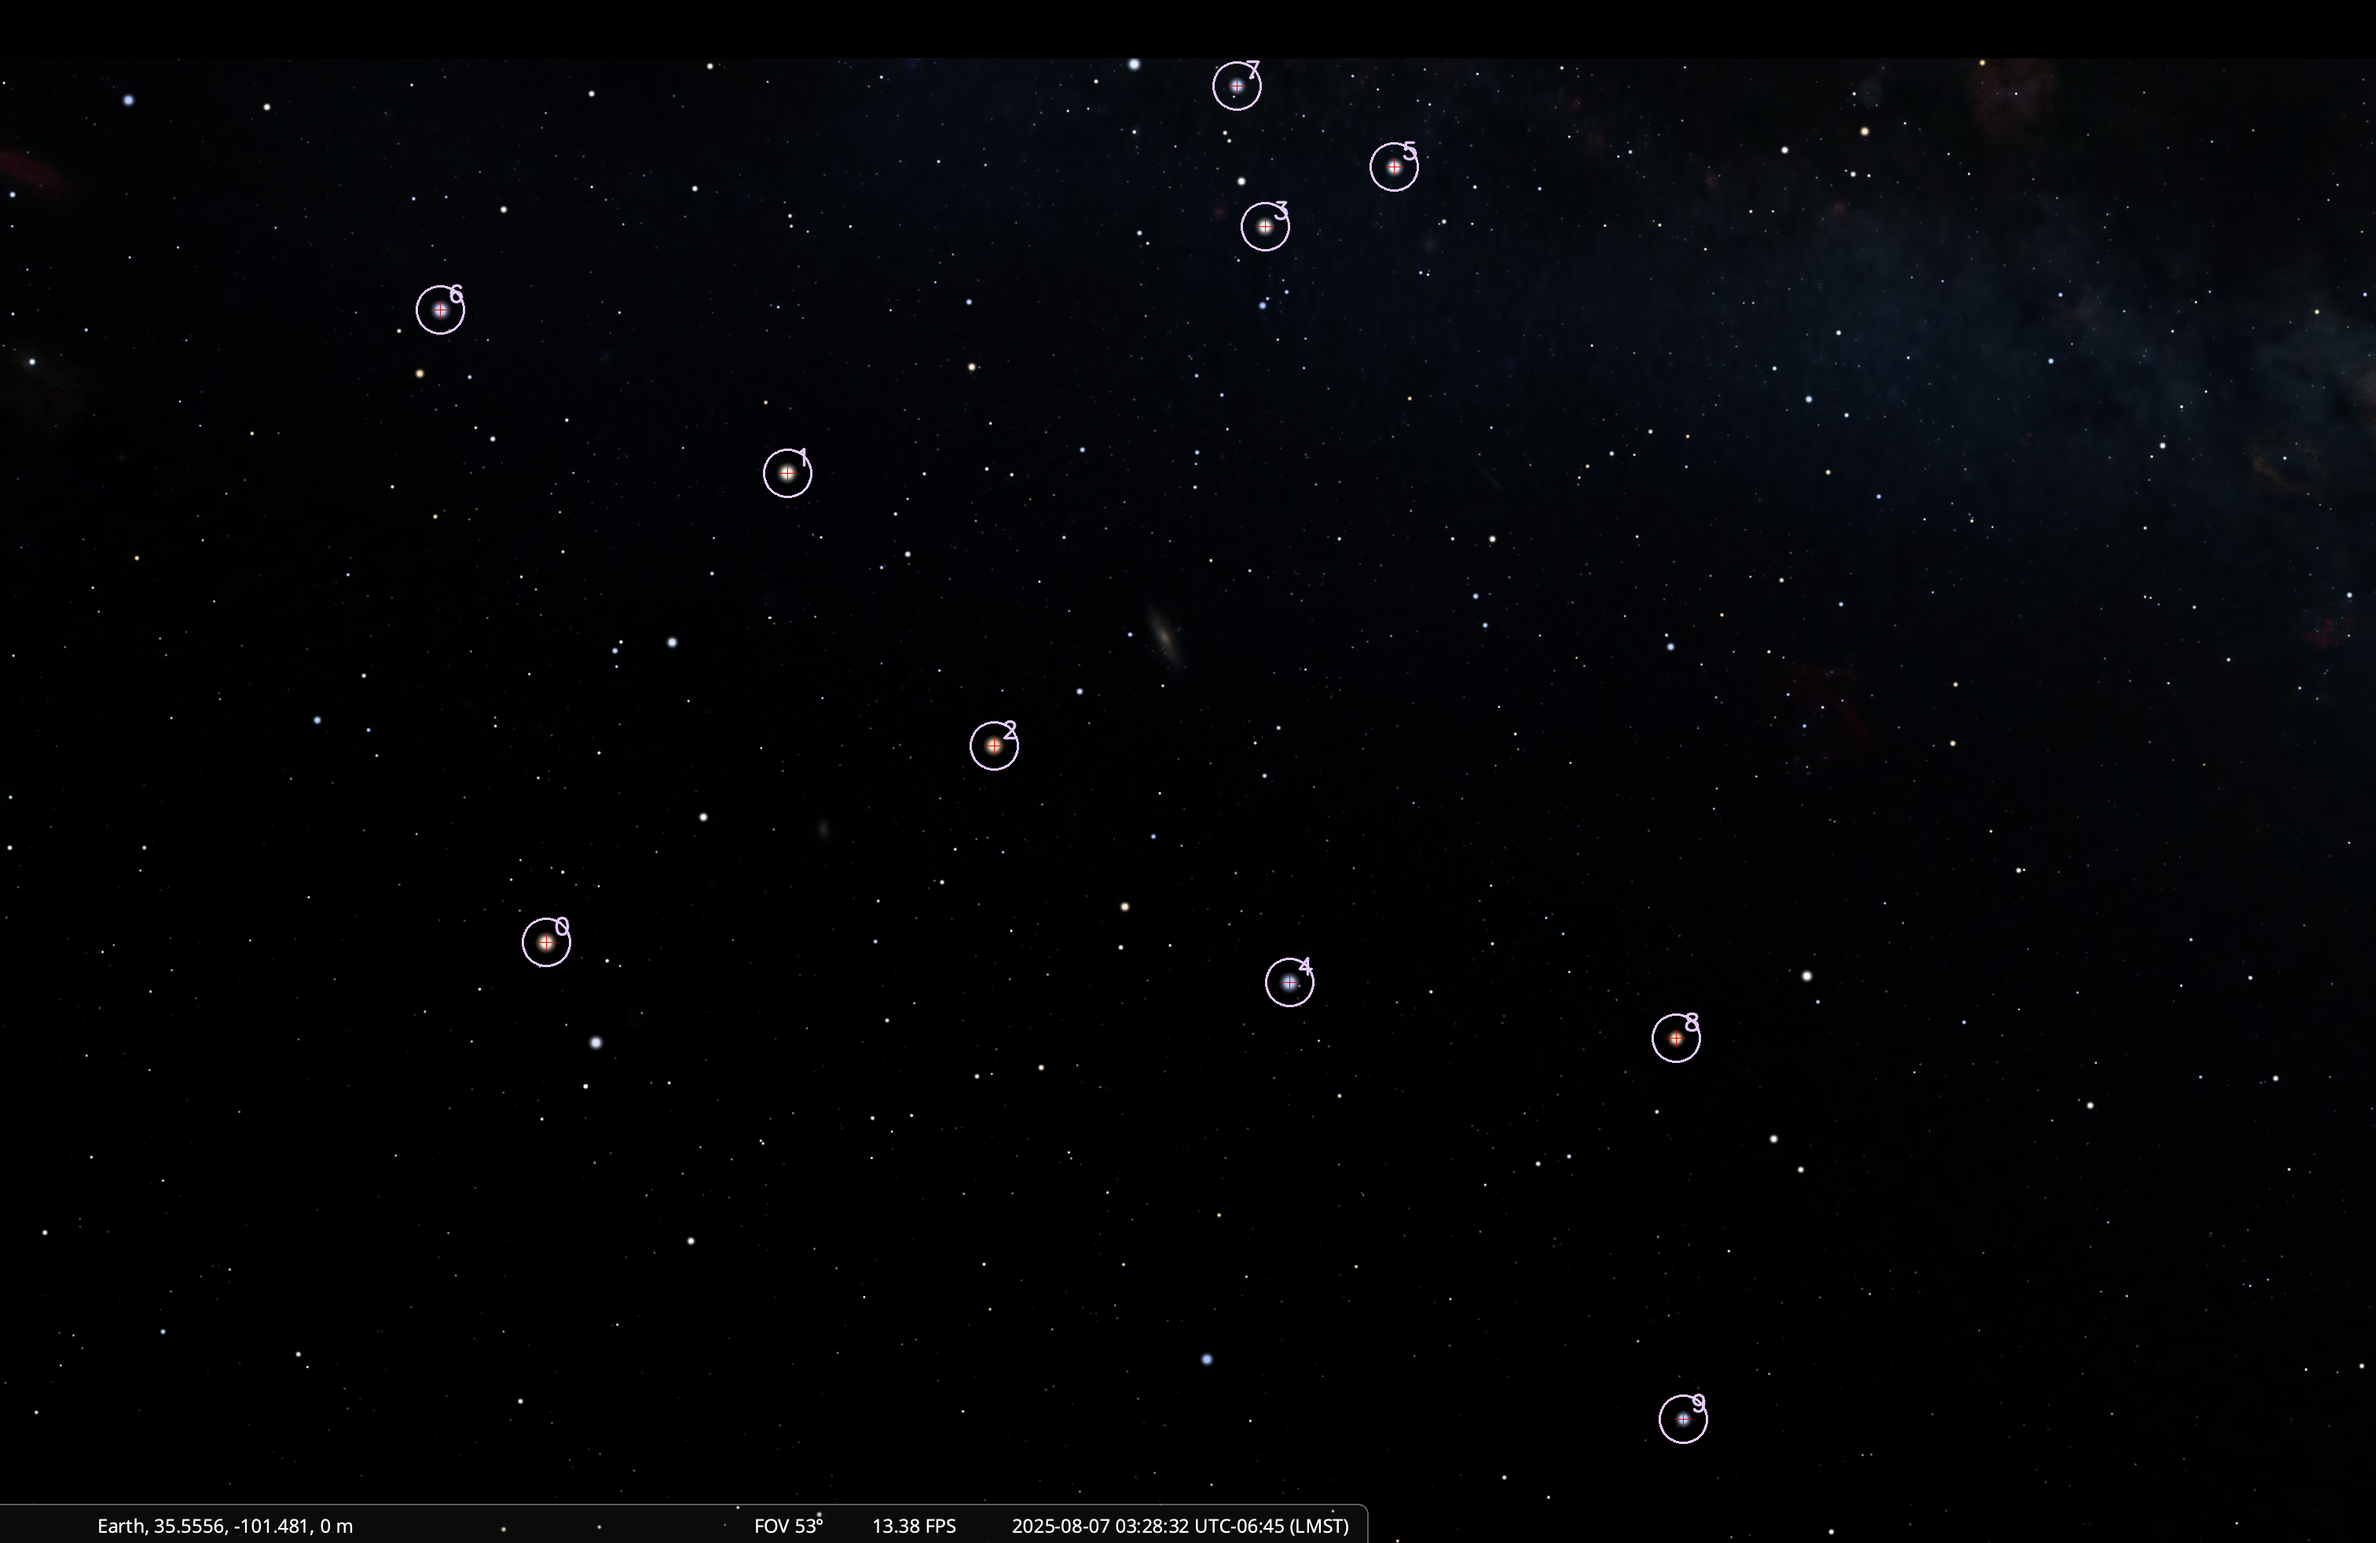
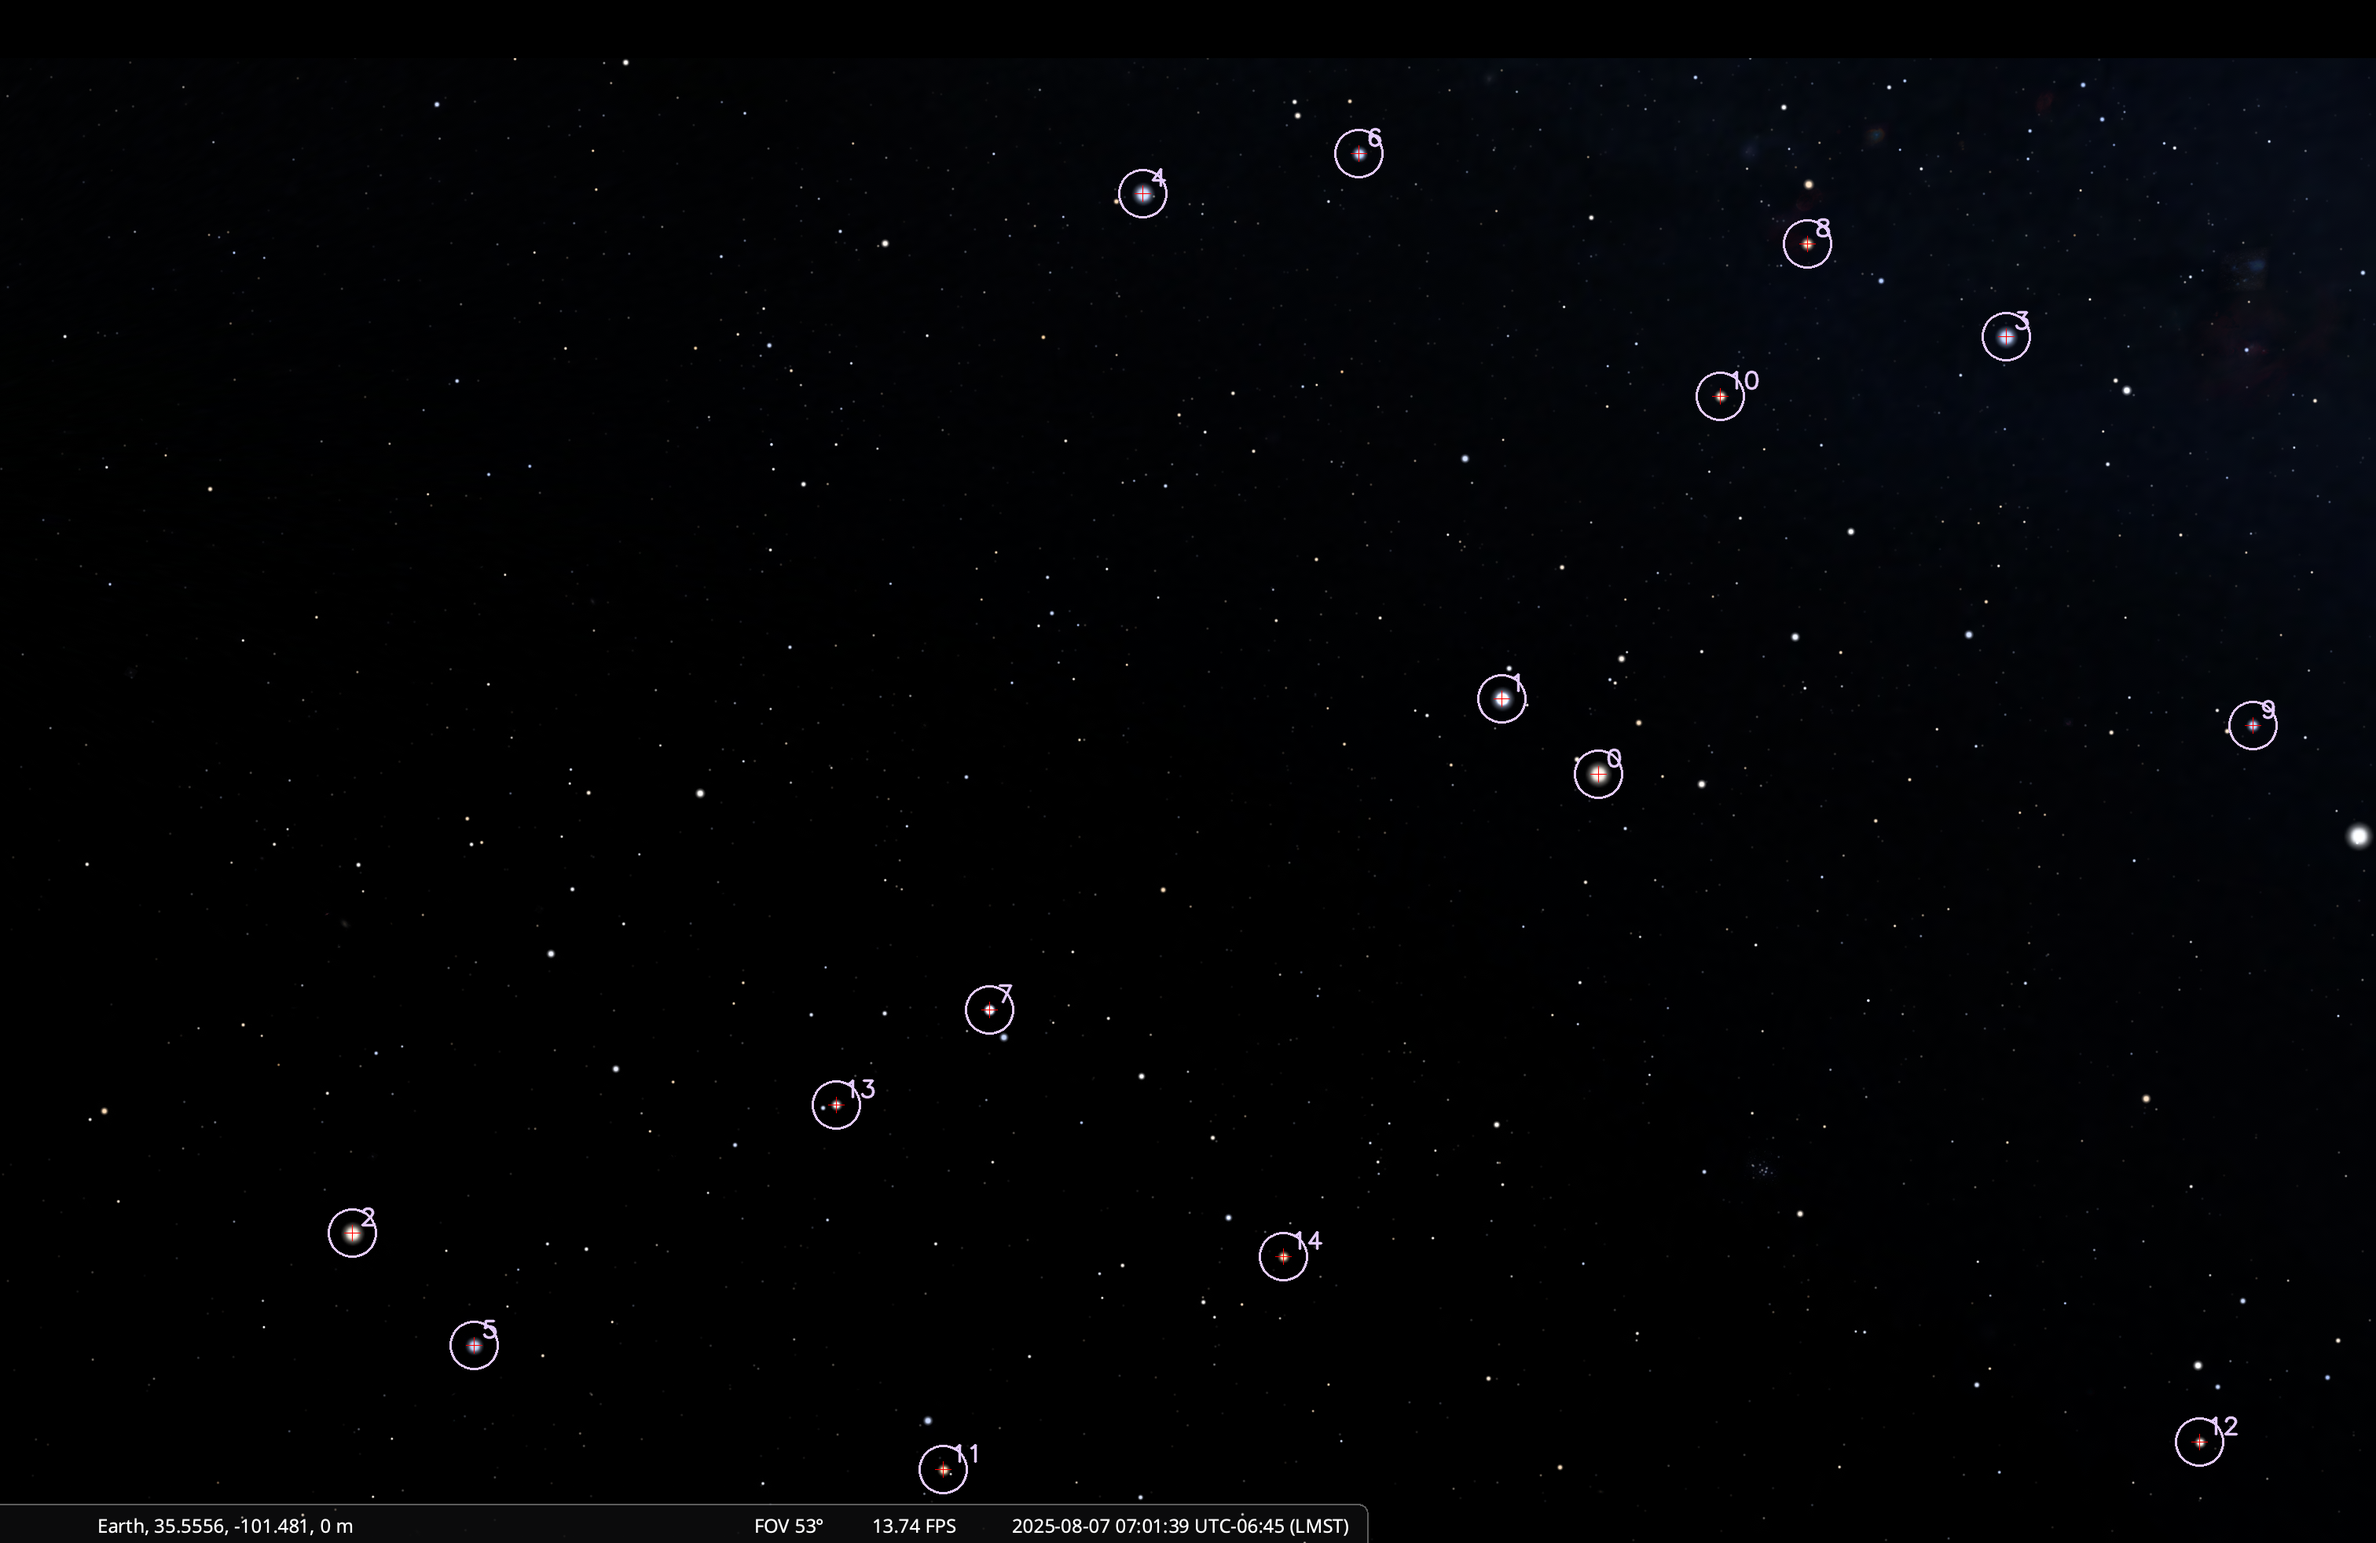
☆ Correcting quaternion logic - add calculate_error and calculate_weights function. Manually correcting original quaternion once

diff --git a/src/digital_twin/main.py b/src/digital_twin/main.py
@@ -25,8 +25,8 @@ CENTER_Y = IMAGE_HEIGHT / 2
 FOCAL_LENGTH_X = (IMAGE_WIDTH / 2) / math.tan(math.radians(FOV_X / 2))
 FOCAL_LENGTH_Y = (IMAGE_HEIGHT / 2) / math.tan(math.radians(FOV_Y / 2))
 TOLERANCE = 2
-IMAGE_FILE = "./test_images/testing44.png"
-NUM_STARS = 10
+IMAGE_FILE = "./test_images/testing45.png"
+NUM_STARS = 15
 EPSILON = 1e-6
 MIN_MATCHES = 5
 MIN_SUPPORT = 5
@@ -429,7 +429,7 @@ def build_quaternion_attitude_profile_matrix(attitude_profile_matrix):
 # Inputs:
 # - quaternion_attitude_profile_matrix: 4x4 matrix
 # Outputs:
-# - optimal_quaternion: quaternion that corresponds to our rotation
+# - optimal_quaternion: quaternion that corresponds to our rotation [qw, qx, qy, qz]
 def find_optimal_quaternion(quaternion_attitude_profile_matrix):
     eigenvalues, eigenvectors = np.linalg.eigh(quaternion_attitude_profile_matrix)
     max_index = np.argmax(eigenvalues)
@@ -474,7 +474,8 @@ def inverse_rotate_vectors(quaternion, catalog_vectors):
 # - projected_coords: coordinates of each point. If point is behind camera
 # the element in the array is None
 def project_to_image_plane(vectors, params):
-    f_x, f_y, c_x, c_y = params
+    f_x, f_y = params[0]
+    c_x, c_y = params[1]
     projected_coords = []
     for vector in vectors:
         x, y, z = vector
@@ -484,7 +485,7 @@ def project_to_image_plane(vectors, params):
             projected_x = f_x * (x / z) + c_x
             projected_y = f_y * (y / z) + c_y
             projected_coords.append((projected_x, projected_y))
-    
+
     return projected_coords
 
 
@@ -495,11 +496,43 @@ def reproject_vectors(quaternion, catalog_vectors, params):
     projected_coords = project_to_image_plane(camera_vectors, params)
     return projected_coords
 
+# Function to calculate error (offset of image star coords to reprojected
+# star coords)
+def calculate_error(image_star_coords, reprojected_star_coords):
+    error_rate = []
+    for i in range(len(reprojected_star_coords)):
+        x_i, y_i = image_star_coords[i]
+
+        if reprojected_star_coords[i] is None:
+            error_rate.append(float("inf"))
+            continue
+
+        x_p, y_p = reprojected_star_coords[i]
+
+        d_x = (x_i - x_p) ** 2
+        d_y = (y_i - y_p) ** 2
+        dist = np.sqrt(d_x + d_y)
+
+        error_rate.append(dist)
+
+    return error_rate
+
+
+def calculate_weights(error_rates):
+    weights = []
+    for error in error_rates:
+        if error == float("inf"):
+            weights.append(0)
+        else:
+            weights.append(1 / (error**2 + EPSILON))
+
+    return weights
+
 
 def lost_in_space():
 
-    star_coords = ip.find_brightest_stars(IMAGE_FILE, NUM_STARS)
-    # star_coords = ip.get_star_coords(IMAGE_FILE, NUM_STARS)
+    # star_coords = ip.find_brightest_stars(IMAGE_FILE, NUM_STARS)
+    star_coords = ip.get_star_coords(IMAGE_FILE, NUM_STARS)
     img_unit_vectors = star_coords_to_unit_vector(
         star_coords, (CENTER_X, CENTER_Y), FOCAL_LENGTH_X, FOCAL_LENGTH_Y
     )
@@ -552,6 +585,53 @@ def lost_in_space():
     cat_matrix = catalog_vector_matrix(best_match, cat_unit_vectors)
 
     quaternion = compute_attitude_quaternion(img_matrix, cat_matrix)
+    q_scalar_last = np.roll(quaternion, -1)
+    reprojected_coords = reproject_vectors(
+        q_scalar_last,
+        cat_matrix,
+        [(FOCAL_LENGTH_X, FOCAL_LENGTH_Y), (CENTER_X, CENTER_Y)],
+    )
+    print(f"Reprojected:")
+    for el in reprojected_coords:
+        if el is None:
+            print(f"aaa")
+        else:
+            x, y = el
+            print(f"{x}, {y}")
+
+    print(f"Original:")
+    for x, y in star_coords:
+        print(f"{x}, {y}")
+
+    error_rates = calculate_error(star_coords, reprojected_coords)
+    for error in error_rates:
+        print(f"{error}")
+
+    weights = calculate_weights(error_rates)
+    new_q = compute_attitude_quaternion(img_matrix, cat_matrix, weights)
+    print(f"New quaternion: {new_q}")
+    q_scalar_last = np.roll(new_q, -1)
+    reprojected_coords = reproject_vectors(
+        q_scalar_last,
+        cat_matrix,
+        [(FOCAL_LENGTH_X, FOCAL_LENGTH_Y), (CENTER_X, CENTER_Y)],
+    )
+    print(f"Reprojected:")
+    for el in reprojected_coords:
+        if el is None:
+            print(f"aaa")
+        else:
+            x, y = el
+            print(f"{x}, {y}")
+
+    print(f"Original:")
+    for x, y in star_coords:
+        print(f"{x}, {y}")
+
+    error_rates = calculate_error(star_coords, reprojected_coords)
+    for error in error_rates:
+        print(f"{error}")
+
     ip.display_star_detections(IMAGE_FILE, star_coords)
     return quaternion
 

diff --git a/src/image_processing/image_processing_v5.py b/src/image_processing/image_processing_v5.py
@@ -12,13 +12,13 @@ IMAGE_PATH = './test_images/clean.jpg'
 # --- Initial Detection Parameters ---
 N_STARS_TO_DETECT = 30     # The maximum number of stars to find.
 BINARY_THRESHOLD = 87      # Pixel brightness cutoff (0-255). Keep this high to isolate bright objects.
-MIN_STAR_AREA = 10         # The minimum number of pixels for an object to be considered a star.
-MAX_STAR_AREA = 600        # The maximum pixel area. Filters out very large/bright objects.
+MIN_STAR_AREA = 20        # The minimum number of pixels for an object to be considered a star.
+MAX_STAR_AREA = 500       # The maximum pixel area. Filters out very large/bright objects.
 
 # --- Shape Filter Gauntlet ---
 MIN_CIRCULARITY = 0.80     # How close to a perfect circle (1.0). Good for filtering spiky noise.
 MAX_ECCENTRICITY = 0.5     # Measures elongation. 0 is a perfect circle, closer to 1 is a line.
-MIN_SOLIDITY = 0.98        # How "solid" the shape is. 1.0 has no holes or dents. Rejects notched shapes.
+MIN_SOLIDITY = 0.95     # How "solid" the shape is. 1.0 has no holes or dents. Rejects notched shapes.
 
 # --- Peak Brightness Filter ---
 MIN_PEAK_RATIO = 0.9       # How much brighter the star's core must be than its immediate surroundings.
